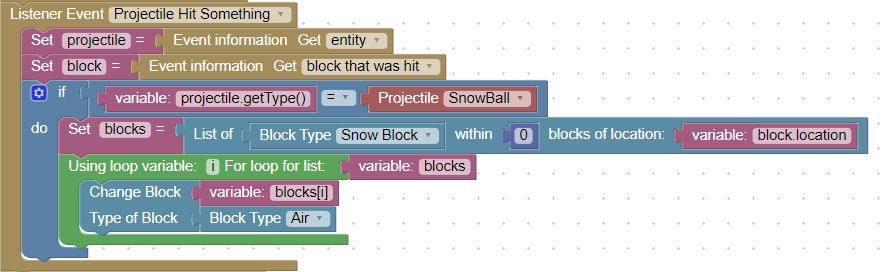
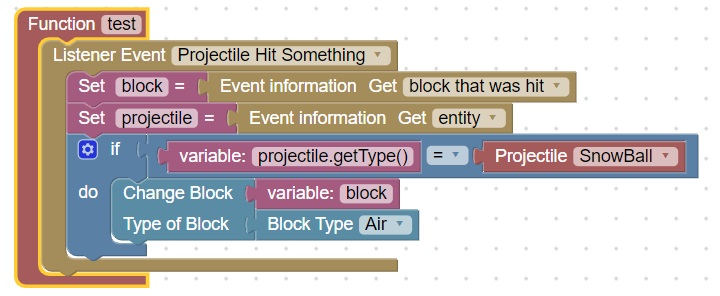
snowball effect

diff --git a/Javascript/demos/code/codeGenerator.js b/Javascript/demos/code/codeGenerator.js
@@ -3035,3 +3035,36 @@ Blockly.Python['sumcards'] = function(block) {
               "}());";  
     return [code, Blockly.Python.ORDER_NONE]
 };
+
+Blockly.Python['starttimer'] = function(block) {
+  var timerName = block.getFieldValue ('TIMERNAME');
+
+  var player = Blockly.Python.valueToCode(block, 'PLAYER', Blockly.Python.ORDER_ATOMIC);
+  player = insideParen(player);
+  var code =  "(function (" + player + "," + timerName + ") {\n" +
+              "  // timerName = " + timerName + ";\n" + 
+              "  fd = new org.bukkit.metadata.FixedMetadataValue (__plugin,new Date().getTime());\n" +
+              "  if (" + player + " != null) {\n" +
+              "    if (" + player + ".setMetadata != null ) {\n" +
+              "       " + player + ".setMetadata (" + timerName + ", fd );\n" +
+              "    }\n" +
+              "  }\n" +
+              "}());\n";
+  return code;
+};
+
+Blockly.Python['elapsedtime'] = function(block) {
+  var player = Blockly.Python.valueToCode(block, 'PLAYER', Blockly.Python.ORDER_ATOMIC);
+  player = insideParen(player); 
+  var timerName = Blockly.Python.valueToCode(block, 'TIMERNAME', Blockly.Python.ORDER_ATOMIC);
+  timerName = insideParen(timerName); 
+
+  var code =  "(function () {\n" + 
+              "   var _startTime = (" + player + "== null)? null : (" + player + ".getMetadata == null)?null:(" + 
+              player + ".getMetadata(" + timerName + ").length == 0)?null:" + player + ".getMetadata(" + timerName + ")[0].value();\n" +   
+              "   var _elapsedTime = (new Date().getTime()) - startTime;\n" +     
+              "   console.log ( \'Elapsed Time: \' + _elapsedTime + \' ms\');\n" +
+              "   return _elapsedTime;\n" +               
+              "}());";  
+    return [code, Blockly.Python.ORDER_NONE]
+};

diff --git a/Javascript/demos/code/blocks.js b/Javascript/demos/code/blocks.js
@@ -3319,3 +3319,32 @@ Blockly.Blocks['sumcards'] = {
   }
 };
 
+Blockly.Blocks['starttimer'] = {
+  init: function() { 
+    this.appendValueInput("PLAYER")
+        .appendField ("Create Timer named ")
+        .appendField (new Blockly.FieldTextInput ( "\"timerName\""), "TIMERNAME")
+        .appendField("For Player");             
+    this.setPreviousStatement(true, null);
+    this.setNextStatement(true, null);
+    this.setColour(160);
+    this.setTooltip('');
+    this.setHelpUrl('http://www.example.com/');   
+    
+  }
+};
+
+Blockly.Blocks['elapsedtime'] = {
+  init: function() {        
+    this.appendValueInput("TIMERNAME")
+        .appendField("Elapsed time for timer");
+    this.appendValueInput("PLAYER")
+        .appendField("assigned to player");
+    this.setColour(160);
+    this.setTooltip('');
+    this.setHelpUrl('http://www.example.com/');
+    this.setInputsInline(true);                    
+    this.setOutput(true, null);    
+    
+  }
+};

diff --git a/Javascript/demos/code/index.html b/Javascript/demos/code/index.html
@@ -291,6 +291,8 @@ function bodyLoad() {
   <xml id="toolbox" style="display: none">
     <category name="World" colour="120">
        <block type="direction"></block>
+       <block type="starttimer"></block>
+       <block type="elapsedtime"></block>
        <block type="millis"></block>
        <block type="copyFile"></block>
        <!block type="boundingbox"><!/block>

diff --git a/docs/snowballEffect.html b/docs/snowballEffect.html
@@ -1,6 +1,6 @@
 <H1>Snowball Effect</h1>
 
-When a snowball hits a snow_block, the snow block should be deleted (changed to air)<br>
+When a snowball hits a block, the block should be deleted (changed to air)<br>
 
 <img src="images/snowballEffect.jpg"><br>
 
